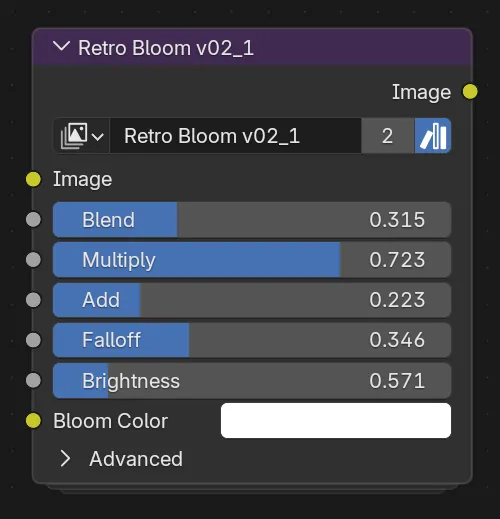
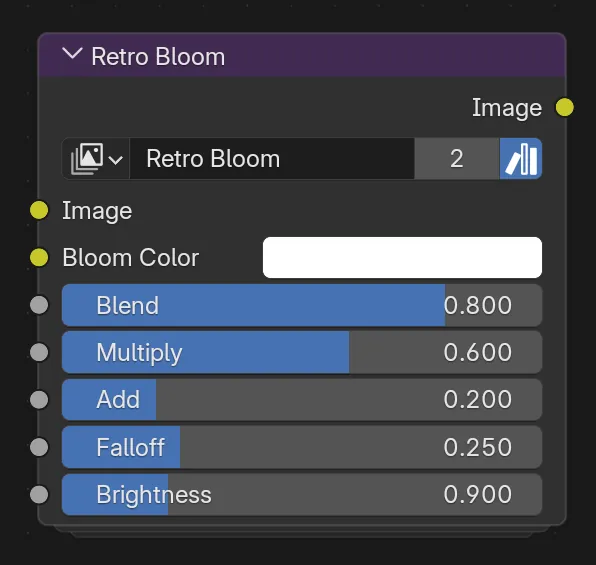
New compositor images
ok

diff --git a/js/data/compositor.js b/js/data/compositor.js
@@ -77,6 +77,9 @@ window.NODEGROUPS.push(
     name: "Color Vignette",
     tagline: "Tinted edge darkening",
     description: "TEMPLATE — replace with final description. Darkens and/or tints the edges of the frame, drawing the eye toward the center of the image.",
+    images: {
+      preview: "images/compositor/color-vignette-node.webp"
+    },
     inputs: [
       { name:"Image", type:"image", desc:"TEMPLATE — the source image or render to process." },
       { name:"Amount", type:"value", desc:"TEMPLATE — overall strength of the vignette effect." },
@@ -95,6 +98,9 @@ window.NODEGROUPS.push(
     name: "Color Grading",
     tagline: "Lift / gamma / gain style grade",
     description: "TEMPLATE — replace with final description. A general-purpose color grading stack for shifting the overall look of the image across shadows, midtones, and highlights.",
+    images: {
+      preview: "images/compositor/color-grading-node.webp"
+    },
     inputs: [
       { name:"Image", type:"image", desc:"TEMPLATE — the source image or render to process." },
       { name:"Lift", type:"color", desc:"TEMPLATE — shifts the shadow/black point of the image." },
@@ -114,6 +120,9 @@ window.NODEGROUPS.push(
     name: "Tonemapper Stack",
     tagline: "Stacked highlight/shadow tone mapping",
     description: "TEMPLATE — replace with final description. Compresses the dynamic range of the image through a stack of tone-mapping operators, rolling off blown highlights and crushed shadows.",
+    images: {
+      preview: "images/compositor/tonemapper-stack-node.webp"
+    },
     inputs: [
       { name:"Image", type:"image", desc:"TEMPLATE — the source image or render to process." },
       { name:"Exposure", type:"value", desc:"TEMPLATE — exposure offset applied before tone mapping." },
@@ -132,6 +141,9 @@ window.NODEGROUPS.push(
     name: "Film Specks",
     tagline: "Dust and speck overlay",
     description: "TEMPLATE — replace with final description. Overlays small dust specks and debris on the image, simulating dirt on the film gate or a scanned print.",
+    images: {
+      preview: "images/compositor/film-specks-node.webp"
+    },
     inputs: [
       { name:"Image", type:"image", desc:"TEMPLATE — the source image or render to process." },
       { name:"Density", type:"value", desc:"TEMPLATE — how many specks appear per frame." },
@@ -150,6 +162,9 @@ window.NODEGROUPS.push(
     name: "Basic Film Damage",
     tagline: "Scratches, flicker, and wear",
     description: "TEMPLATE — replace with final description. Adds simple film-damage artifacts — vertical scratches, brightness flicker, and dust — for a worn print look.",
+    images: {
+      preview: "images/compositor/basic-film-damage-node.webp"
+    },
     inputs: [
       { name:"Image", type:"image", desc:"TEMPLATE — the source image or render to process." },
       { name:"Scratch Amount", type:"value", desc:"TEMPLATE — density and visibility of vertical scratches." },
@@ -175,6 +190,47 @@ window.NODEGROUPS.push(
     ],
     outputs: [
       { name:"Image", type:"image", desc:"TEMPLATE — the compensated output image." }
+    ],
+    note: "Placeholder entry — swap in the real slider names, defaults, and a node preview screenshot once this nodegroup is finalized."
+  },
+  {
+    id: "retro-bloom-advanced",
+    category: "compositor",
+    name: "Retro Bloom Advanced",
+    tagline: "Extended bloom control stack",
+    description: "TEMPLATE — replace with final description. A more advanced bloom nodegroup with finer-grained control than the base Retro Bloom, for shots that need extra dialing-in.",
+    images: {
+      preview: "images/compositor/retro-bloom-advanced-node.webp"
+    },
+    inputs: [
+      { name:"Image", type:"image", desc:"TEMPLATE — the source image or render to bloom." },
+      { name:"Threshold", type:"value", desc:"TEMPLATE — brightness level above which the bloom starts picking up highlights." },
+      { name:"Blend", type:"value", desc:"TEMPLATE — controls the strength of the bloom effect." },
+      { name:"Falloff", type:"value", desc:"TEMPLATE — controls the curve shape of the bloom." },
+      { name:"Bloom Color", type:"color", desc:"TEMPLATE — changes the color of the bloom." }
+    ],
+    outputs: [
+      { name:"Image", type:"image", desc:"TEMPLATE — the source image with the advanced bloom effect applied." }
+    ],
+    note: "Placeholder entry — swap in the real slider names, defaults, and a node preview screenshot once this nodegroup is finalized."
+  },
+  {
+    id: "napalm-boost",
+    category: "compositor",
+    name: "Napalm Boost",
+    tagline: "High-contrast heat/fire boost",
+    description: "TEMPLATE — replace with final description. Boosts highlights and warm tones for a hot, high-contrast look, suited to fire, explosions, and other intense-heat effects.",
+    images: {
+      preview: "images/compositor/napalm-boost-node.webp"
+    },
+    inputs: [
+      { name:"Image", type:"image", desc:"TEMPLATE — the source image or render to process." },
+      { name:"Intensity", type:"value", desc:"TEMPLATE — overall strength of the boost effect." },
+      { name:"Threshold", type:"value", desc:"TEMPLATE — brightness level above which the boost kicks in." },
+      { name:"Tint", type:"color", desc:"TEMPLATE — color tint applied to boosted highlights." }
+    ],
+    outputs: [
+      { name:"Image", type:"image", desc:"TEMPLATE — the processed image with the boost applied." }
     ],
     note: "Placeholder entry — swap in the real slider names, defaults, and a node preview screenshot once this nodegroup is finalized."
   }

diff --git a/js/data/search-index.js b/js/data/search-index.js
@@ -95,6 +95,24 @@ window.SEARCH_INDEX = [
     "href": "compositor.html#compensate-view"
   },
   {
+    "id": "retro-bloom-advanced",
+    "name": "Retro Bloom Advanced",
+    "category": "compositor",
+    "sub": null,
+    "tagline": "Extended bloom control stack",
+    "description": "TEMPLATE — replace with final description. A more advanced bloom nodegroup with finer-grained control than the base Retro Bloom, for shots that need extra dialing-in.",
+    "href": "compositor.html#retro-bloom-advanced"
+  },
+  {
+    "id": "napalm-boost",
+    "name": "Napalm Boost",
+    "category": "compositor",
+    "sub": null,
+    "tagline": "High-contrast heat/fire boost",
+    "description": "TEMPLATE — replace with final description. Boosts highlights and warm tones for a hot, high-contrast look, suited to fire, explosions, and other intense-heat effects.",
+    "href": "compositor.html#napalm-boost"
+  },
+  {
     "id": "smart-bevel-gn",
     "name": "Smart Bevel GN",
     "category": "modifiers",
